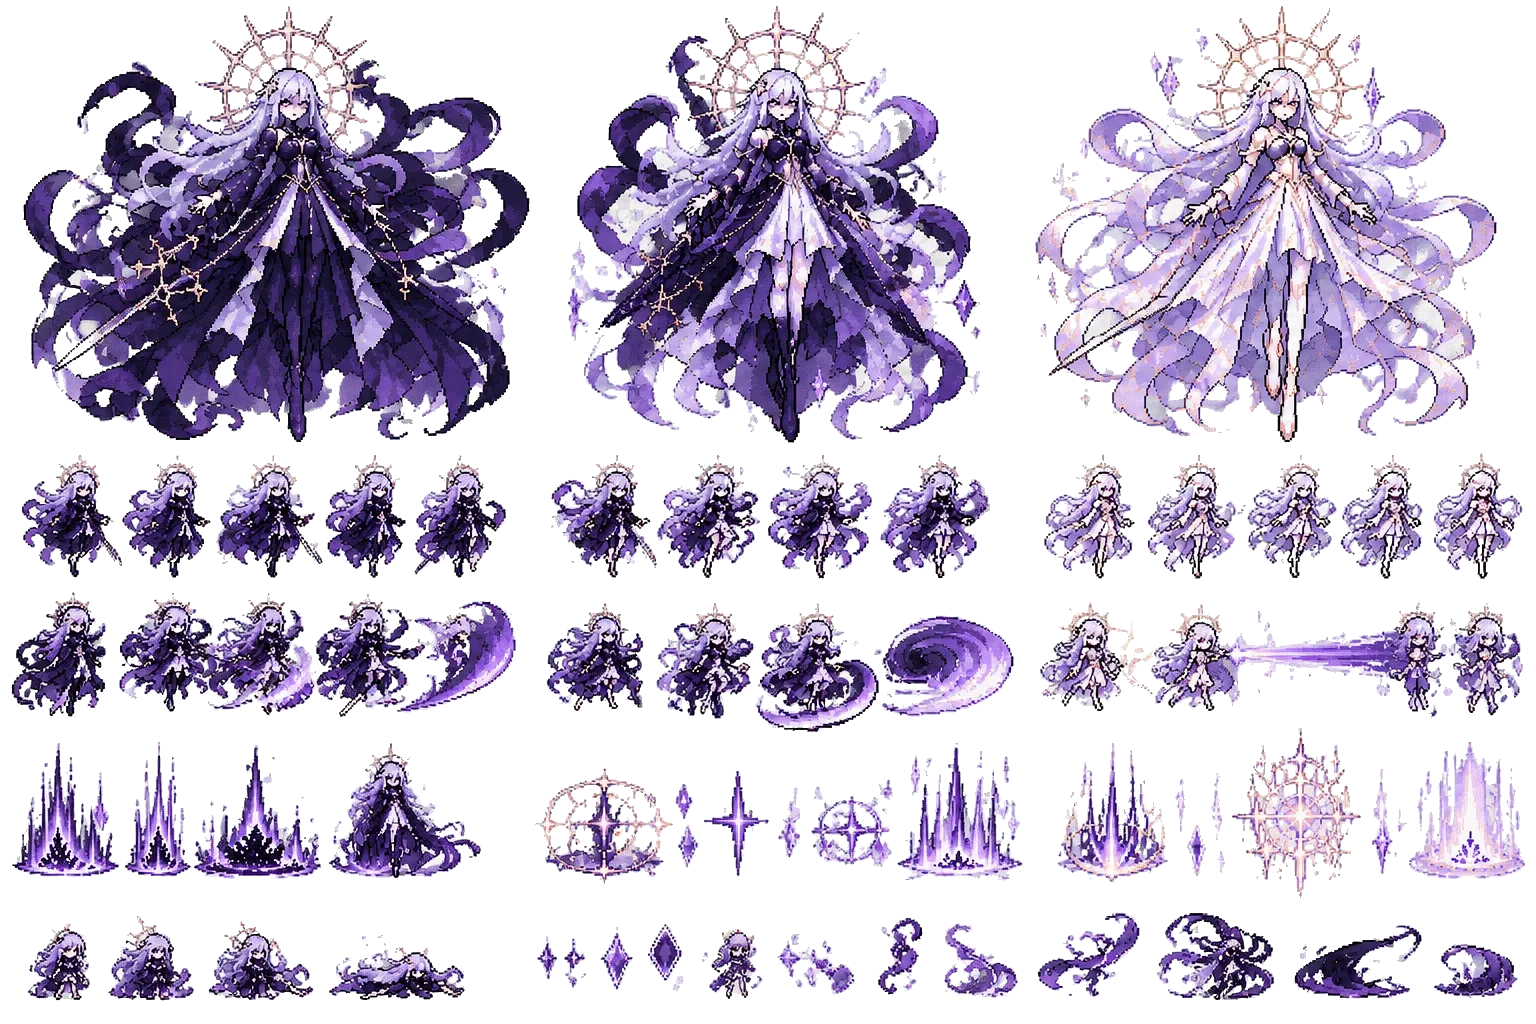
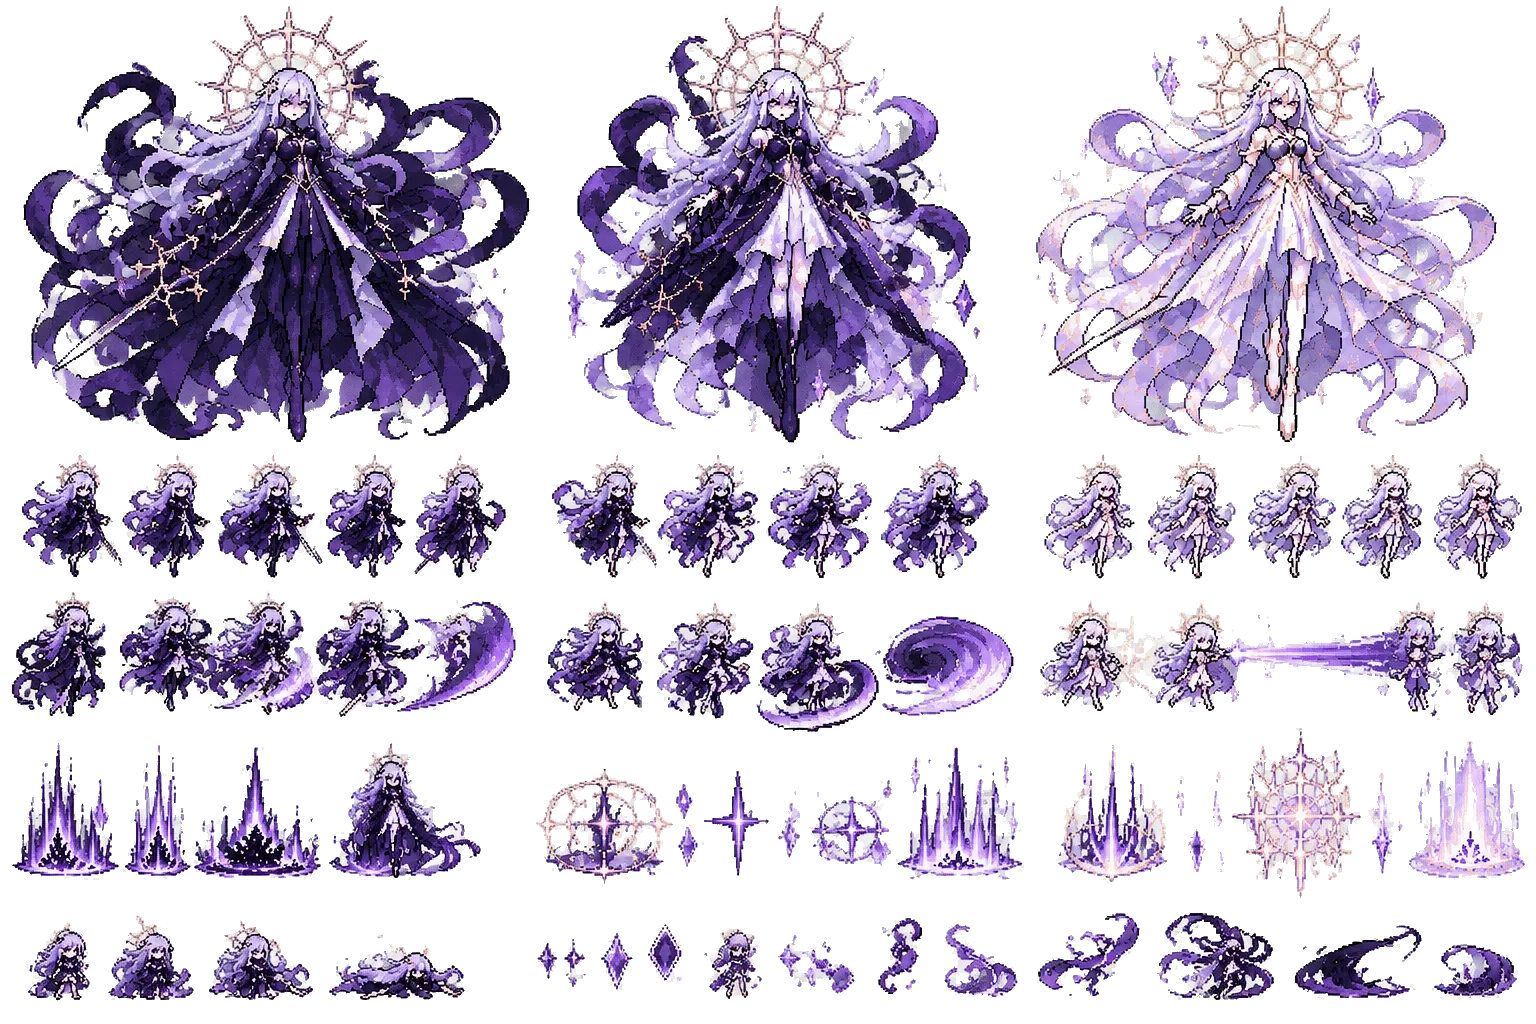
Serena sheet: exact checker removal, clean frame splits, 16 colours per phase
sheet_cut.py: the checker is exactly grey (R=G=B), the art's whites are lavender, so background is
told per pixel; the leftover bluish blend on the silhouette is peeled (the warm halo kept).
sheet_to_aseprite.py: bodies split at the line between their centres, loose pieces (halo, strands)
go whole to the nearest body; every file repainted in its phase's 16-colour palette (picked so
accents get a colour), with a cleanup of lone pixels; the Aseprite palette is that palette.

Claude-Session: https://claude.ai/code/session_0185oZ6r6fULvMuFhSJXetNT

diff --git a/tools/sprites/sheet_to_aseprite.py b/tools/sprites/sheet_to_aseprite.py
@@ -72,10 +72,89 @@ def split_count(alpha, n):
     return [(edges[i], edges[i + 1]) for i in range(n)]
 
 
-def write(path, frames_cut, frames_orig, pivot, duration=100):
+def split_bodies(rgb, alpha, n):
+    """n frames whose hair and cloth overlap. Each body's centre is the middle of the thickest part of its slot (the
+    slots are cut at the sparsest columns); a separate piece (a halo, a strand, a spark) goes whole to the body whose
+    centre is nearest; a piece joining two bodies is split on the line halfway between their centres.
+    Returns n masks, left to right."""
+    import cv2
+    m = alpha.astype(np.uint8)
+    dist = cv2.distanceTransform(m, cv2.DIST_L2, 5)
+    centres = []
+    for a_, b_ in split_count(alpha, n):
+        d = np.zeros_like(dist); d[:, a_:b_] = dist[:, a_:b_]
+        ys, xs = np.nonzero(d >= d.max() * 0.5)
+        centres.append(float(xs.mean()))
+    mids = [(centres[k] + centres[k + 1]) / 2 for k in range(n - 1)]
+    X = np.arange(alpha.shape[1])[None, :].repeat(alpha.shape[0], 0)
+    by_column = np.searchsorted(mids, X)                               # which body each column belongs to
+    out = [np.zeros_like(alpha) for _ in range(n)]
+    cnt, lab, st, cen = cv2.connectedComponentsWithStats(m, 8)
+    for i in range(1, cnt):
+        piece = lab == i
+        cols = np.unique(by_column[piece])
+        if len(cols) == 1 or st[i, 4] < 400:                           # whole, to the nearest body
+            k = int(np.argmin([abs(cen[i][0] - c) for c in centres])); out[k] |= piece
+        else:                                                          # a piece joining bodies: split halfway
+            for k in cols: out[k] |= piece & (by_column == k)
+    return out
+
+
+def split_clusters(alpha, gap=3):
+    """Effect groups: each cluster of pieces closer than `gap` px is one frame, left to right."""
+    import cv2
+    near = cv2.dilate(alpha.astype(np.uint8), np.ones((gap, gap), np.uint8))
+    cnt, lab, st, cen = cv2.connectedComponentsWithStats(near, 8)
+    keep = [i for i in range(1, cnt) if (alpha & (lab == i)).sum() > 40]
+    return [alpha & (lab == i) for i in sorted(keep, key=lambda i: st[i, 0])]
+
+
+def family(name):
+    return name.split("-")[1] if name.split("-")[1] in ("p1", "p2", "p3") else "fx"
+
+
+def make_palette(pixels, n=16):
+    """n colours for a family, picked in Lab (perceptual), dark to light. Each distinct colour (binned) counts once,
+    not by area, so small accents (the gold halo, the pink of a cheek, a glowing edge) get a colour of their own."""
+    import cv2
+    binned = np.unique((pixels // 8).astype(np.int16), axis=0) * 8 + 4
+    lab = cv2.cvtColor(binned[None].astype(np.uint8), cv2.COLOR_RGB2LAB)[0].astype(np.float32)
+    crit = (cv2.TERM_CRITERIA_EPS + cv2.TERM_CRITERIA_MAX_ITER, 80, 0.2)
+    _, _, cen = cv2.kmeans(lab, n, None, crit, 6, cv2.KMEANS_PP_CENTERS)
+    cen = cen[np.argsort(cen[:, 0])]
+    return cen, cv2.cvtColor(cen[None].clip(0, 255).astype(np.uint8), cv2.COLOR_LAB2RGB)[0]
+
+
+def paint(rgba, cen, pal):
+    """Repaint a cut-out with the family's palette only, then a cleanup: a pixel none of its 8 neighbours shares takes
+    the colour most of them agree on, unless it stands out (a line, an eye, a glint)."""
+    import cv2
+    m = rgba[..., 3] > 0
+    lab = cv2.cvtColor(np.ascontiguousarray(rgba[..., :3]), cv2.COLOR_RGB2LAB).astype(np.float32)
+    idx = np.argmin(((lab.reshape(-1, 3)[:, None] - cen[None]) ** 2).sum(-1), 1).reshape(m.shape)
+    idx = np.where(m, idx, -1)
+    L = cen[:, 0]
+    h, w = idx.shape
+    for _ in range(2):
+        src = idx.copy()
+        for y in range(1, h - 1):
+            for x in range(1, w - 1):
+                c = src[y, x]
+                if c < 0: continue
+                nb = np.delete(src[y - 1:y + 2, x - 1:x + 2].ravel(), 4); nb = nb[nb >= 0]
+                if not len(nb) or (nb == c).sum() >= 1: continue
+                v, k = np.unique(nb, return_counts=True)
+                t = v[np.argmax(k)]
+                if k.max() >= 4 and abs(L[c] - L[t]) < 60: idx[y, x] = t
+    out = np.zeros_like(rgba)
+    out[m, :3] = pal[idx[m]]; out[m, 3] = 255
+    return out
+
+
+def write(path, frames_cut, frames_orig, pal, duration=100):
     h = max(f.shape[0] for f in frames_cut); w = max(f.shape[1] for f in frames_cut)
     W, H = w + 4, h + 4
-    colors = A.auto_palette(Image.fromarray(np.concatenate([f.reshape(-1, 4) for f in frames_cut])[None]))
+    colors = [(int(r), int(g), int(b), 255) for r, g, b in pal]
     out = []
     for i, (fc, fo) in enumerate(zip(frames_cut, frames_orig)):
         ox, oy = (W - fc.shape[1]) // 2, H - 2 - fc.shape[0]           # bottom-centre aligned
@@ -105,19 +184,26 @@ def main():
     cut = np.asarray(Image.open(os.path.join(ROOT, "art/bosses/serena-sheet/cut.png")).convert("RGBA"))
     orig = np.asarray(Image.open(os.path.join(ROOT, "art/bosses/serena-sheet/sheet.webp")).convert("RGBA"))
     index = []
+    fam_px = {}
+    for name, x0, y0, x1, y1 in GROUPS:
+        g = cut[y0:y1, x0:x1]
+        fam_px.setdefault(family(name), []).append(g[g[..., 3] > 0][:, :3])
+    pals = {f: make_palette(np.concatenate(v)) for f, v in fam_px.items()}
     for name, x0, y0, x1, y1 in GROUPS:
         g = cut[y0:y1, x0:x1]
         al = g[..., 3] > 0
-        spans = [(0, g.shape[1])] if name.endswith("-art") else split_count(al, COUNTS[name]) if name in COUNTS else pieces(al, x0, x1)
+        if name.endswith("-art"): masks = [al]
+        elif name in COUNTS: masks = split_bodies(g, al, COUNTS[name])
+        else: masks = split_clusters(al)
+        o = orig[y0:y1, x0:x1]
         fc, fo = [], []
-        for a_, b_ in spans:
-            piece = g[:, a_:b_]
-            ys = np.nonzero(piece[..., 3].any(1))[0]
-            top, bot = ys.min(), ys.max() + 1
-            fc.append(np.ascontiguousarray(piece[top:bot]))
-            o = orig[y0 + top: y0 + bot, x0 + a_: x0 + b_].copy()
-            fo.append(np.ascontiguousarray(o))
-        n, W, H = write(os.path.join(a.out, name + ".aseprite"), fc, fo, None)
+        for mk in masks:
+            ys, xs = np.nonzero(mk)
+            t, b_, l, r = ys.min(), ys.max() + 1, xs.min(), xs.max() + 1
+            piece = g[t:b_, l:r].copy(); piece[..., 3] = np.where(mk[t:b_, l:r], 255, 0)
+            fc.append(np.ascontiguousarray(paint(piece, *pals[family(name)])))
+            fo.append(np.ascontiguousarray(o[t:b_, l:r]))
+        n, W, H = write(os.path.join(a.out, name + ".aseprite"), fc, fo, pals[family(name)][1])
         index.append({"file": name + ".aseprite", "frames": n, "size": [W, H], "sheet_box": [x0, y0, x1, y1]})
         print(f"{name:22s} {n:2d} frames  {W}x{H}")
     json.dump(index, open(os.path.join(a.out, "index.json"), "w"), indent=1)

diff --git a/tools/sprites/sheet_cut.py b/tools/sprites/sheet_cut.py
@@ -33,26 +33,35 @@ def protect_mask(rgb, model):
 
 
 def cut(rgb, protect=None):
+    """Background = the checker's exactly-grey pixels (R = G = B within 3, light, not the pure white of a sparkle),
+    in areas of at least 12 px; then the blend pixels along that edge (grey-ish, light) go too. The art's whites are
+    lavender (blue a few levels above green), so they stay."""
     a = rgb.astype(np.int16)
     h, w, _ = a.shape
     L = a.mean(-1)
-    neutral = (a.max(-1) - a.min(-1) <= 10) & (a.min(-1) >= 215)
-    n, lab, st, _ = cv2.connectedComponentsWithStats(neutral.astype(np.uint8), 4)
+    chroma = a.max(-1) - a.min(-1)
+    grey = (chroma <= 3) & (L >= 212) & (L <= 251)
+    n, lab, st, _ = cv2.connectedComponentsWithStats(grey.astype(np.uint8), 4)
     bg = np.zeros((h, w), bool)
     for i in range(1, n):
-        x, y, ww, hh, ar = st[i]
-        sel = lab == i
-        v = L[sel]
-        edge = x == 0 or y == 0 or x + ww >= w or y + hh >= h
-        guarded = protect is not None and float(protect[sel].mean()) >= 0.7
-        if edge or (not guarded and (v.mean() < 243.5 or (v.mean() < 246.5 and v.std() >= 6.5 and ar >= 20))): bg |= sel
-    # the soft fringe where the art meets the checker: neutral, light, beside the background
-    near = cv2.dilate(bg.astype(np.uint8), np.ones((3, 3), np.uint8)) > 0
-    fringe = near & ~bg & (a.max(-1) - a.min(-1) <= 14) & (a.min(-1) >= 205)
-    fg = ~(bg | fringe)
+        if st[i, cv2.CC_STAT_AREA] >= 12: bg |= lab == i
+    # close pinholes in the checker (a compression speck inside a cell), never across art
+    closed = cv2.morphologyEx(bg.astype(np.uint8), cv2.MORPH_CLOSE, np.ones((3, 3), np.uint8)) > 0
+    bg |= closed & (chroma <= 6) & (L >= 205)
+    # the blend along the edge: two passes of greyish light pixels touching the background
+    for _ in range(2):
+        near = cv2.dilate(bg.astype(np.uint8), np.ones((3, 3), np.uint8)) > 0
+        bg |= near & (chroma <= 7) & (L >= 200)
+    fg = ~bg
+    # what is left of the blend on the outside: light, washed-out pixels on the silhouette's edge (the art's own
+    # outline there is dark, so it stays); peeled for up to three pixels
+    for _ in range(3):
+        edge = fg & (cv2.erode(fg.astype(np.uint8), np.ones((3, 3), np.uint8)) == 0)
+        cool = a[..., 2] >= a[..., 0]                                  # the blend is bluish; the halo's gold is warm
+        fg &= ~(edge & (L >= 190) & (chroma <= 30) & cool)
     n, lab, st, _ = cv2.connectedComponentsWithStats(fg.astype(np.uint8), 8)
     for i in range(1, n):
-        if st[i, cv2.CC_STAT_AREA] < 4: fg &= lab != i
+        if st[i, cv2.CC_STAT_AREA] < 6: fg &= lab != i
     return np.dstack([rgb, (fg * 255).astype(np.uint8)])
 
 
@@ -61,5 +70,4 @@ if __name__ == "__main__":
     ap = argparse.ArgumentParser(); ap.add_argument("--model", help="isnet-anime.onnx (guards pale parts of the art)")
     args = ap.parse_args()
     src = np.asarray(Image.open(os.path.join(ROOT, "art/bosses/serena-sheet/sheet.webp")).convert("RGB"))
-    prot = protect_mask(src, args.model) if args.model else None
-    Image.fromarray(cut(src, prot)).save(os.path.join(ROOT, "art/bosses/serena-sheet/cut.png"))
+    Image.fromarray(cut(src)).save(os.path.join(ROOT, "art/bosses/serena-sheet/cut.png"))
